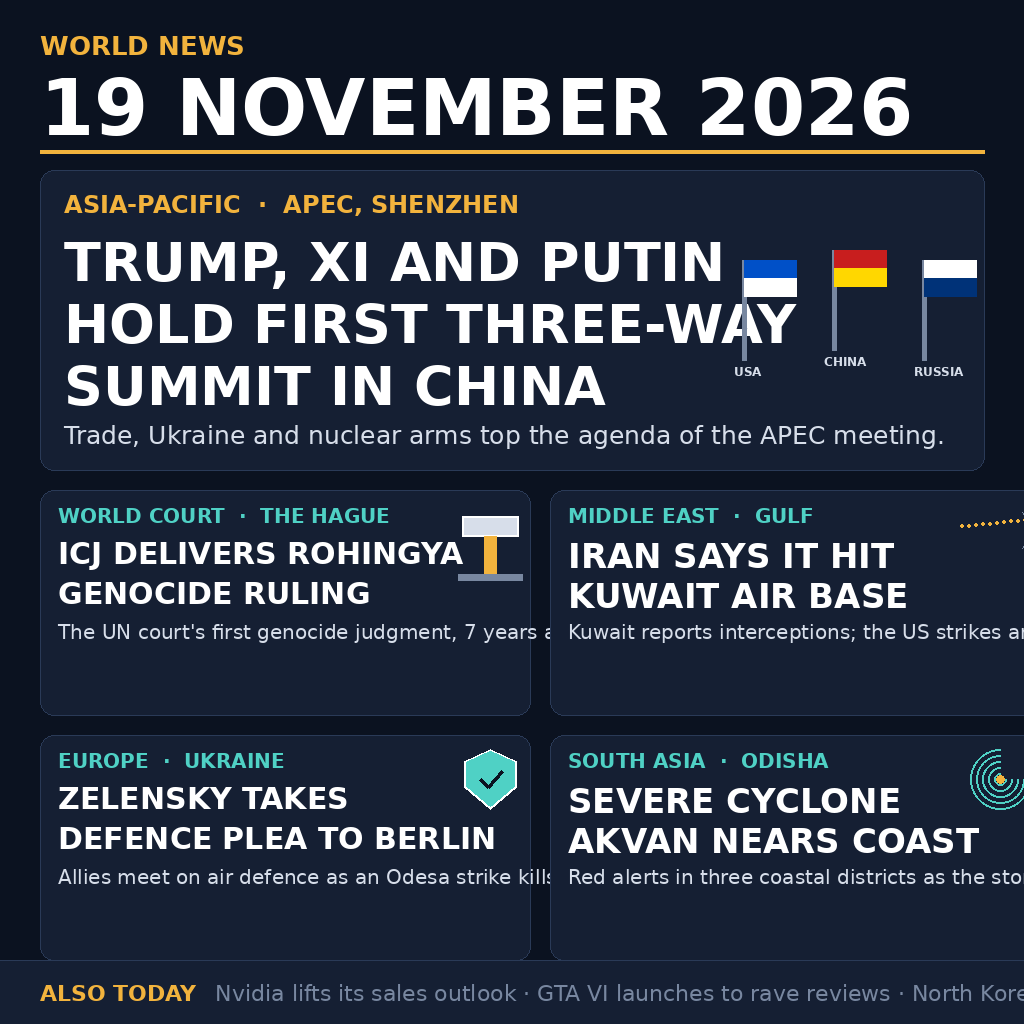
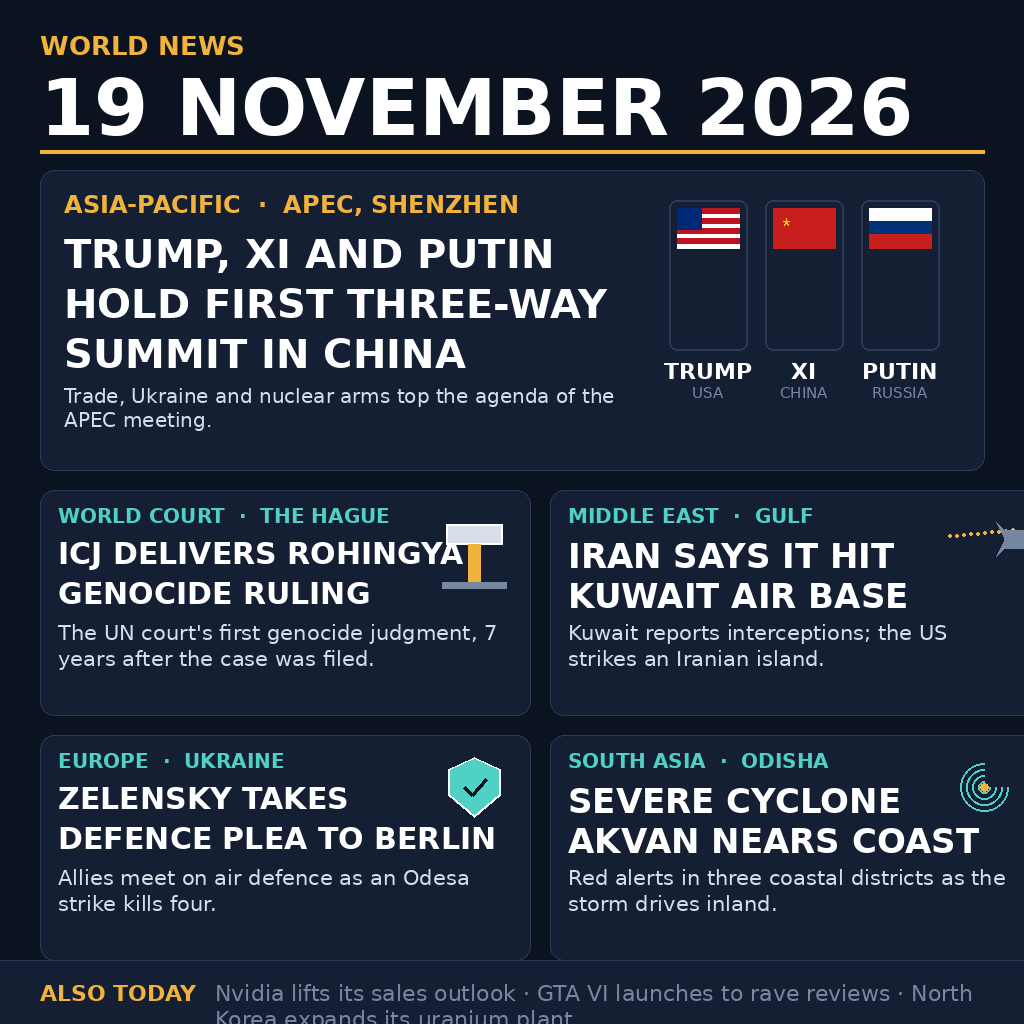
news-image-20261119: fit every text block, redraw flags, add layout self-check

diff --git a/make_image.py b/make_image.py
@@ -2,6 +2,7 @@
 """Generate the 19 November 2026 world news image."""
 from PIL import Image, ImageDraw, ImageFont
 from pathlib import Path
+import math
 
 W, H = 1024, 1024
 
@@ -17,8 +18,6 @@ GREY = (120, 135, 160)
 F = Path("/usr/share/fonts/truetype/dejavu")
 FONT_SANS = F / "DejaVuSans.ttf"
 FONT_BOLD = F / "DejaVuSans-Bold.ttf"
-FONT_SERIF = F / "DejaVuSerif-Bold.ttf"
-FONT_COND = F / "DejaVuSansCondensed-Bold.ttf"
 
 
 def font(path, size):
@@ -27,16 +26,6 @@ def font(path, size):
 
 def text_w(draw, text, f):
     return draw.textlength(text, font=f)
-
-
-def fit_font(draw, text, path, max_size, max_w, min_size=20):
-    size = max_size
-    while size >= min_size:
-        f = font(path, size)
-        if text_w(draw, text, f) <= max_w:
-            return f
-        size -= 1
-    return font(path, min_size)
 
 
 def wrap_lines(draw, text, f, max_w):
@@ -64,46 +53,21 @@ def chip(draw, x, y, text, color, size=24, bold=True):
     draw.text((x, y), text, font=f, fill=color)
 
 
-def pictogram_three_lecterns(draw, cx, cy):
-    blocks = [
-        (cx - 90, cy, (0, 80, 200), (255, 255, 255)),  # USA
-        (cx, cy - 10, (200, 30, 30), (255, 215, 0)),  # China
-        (cx + 90, cy, (255, 255, 255), (0, 50, 120)),  # Russia
-    ]
-    labels = ["USA", "CHINA", "RUSSIA"]
-    for i, (x, y, c1, c2) in enumerate(blocks):
-        # pole
-        draw.rectangle([x - 2, y - 60, x + 2, y + 40], fill=GREY)
-        # flag
-        draw.rectangle([x, y - 60, x + 52, y - 24], fill=c1)
-        draw.rectangle([x, y - 42, x + 52, y - 24], fill=c2)
-        # label
-        lf = font(FONT_BOLD, 12)
-        draw.text((x - 10, y + 44), labels[i], font=lf, fill=BODY)
-
-
 def pictogram_gavel(draw, cx, cy):
-    # head
     draw.rectangle([cx - 28, cy - 18, cx + 28, cy + 2], fill=BODY, outline=HEAD, width=2)
-    # handle
     draw.rectangle([cx - 6, cy + 2, cx + 6, cy + 40], fill=AMBER)
-    # base
     draw.rectangle([cx - 32, cy + 40, cx + 32, cy + 46], fill=GREY)
 
 
 def pictogram_missile(draw, cx, cy):
-    # dashed arc
-    for i in range(0, 12):
-        x = cx - 40 + i * 7
-        y = cy - 10 - int(8 * (i / 11.0))
+    for i in range(0, 10):
+        x = cx - 36 + i * 7
+        y = cy - 8 - int(6 * (i / 9.0))
         draw.ellipse([x, y, x + 3, y + 3], fill=AMBER)
-    # missile body
-    draw.rectangle([cx + 30, cy - 14, cx + 56, cy + 6], fill=GREY)
-    # nose
-    draw.polygon([(cx + 56, cy - 14), (cx + 70, cy - 4), (cx + 56, cy + 6)], fill=AMBER)
-    # fins
-    draw.polygon([(cx + 30, cy - 14), (cx + 22, cy - 22), (cx + 30, cy - 6)], fill=GREY)
-    draw.polygon([(cx + 30, cy + 6), (cx + 22, cy + 14), (cx + 30, cy - 2)], fill=GREY)
+    draw.rectangle([cx + 20, cy - 12, cx + 44, cy + 6], fill=GREY)
+    draw.polygon([(cx + 44, cy - 12), (cx + 56, cy - 2), (cx + 44, cy + 6)], fill=AMBER)
+    draw.polygon([(cx + 20, cy - 12), (cx + 12, cy - 20), (cx + 20, cy - 4)], fill=GREY)
+    draw.polygon([(cx + 20, cy + 6), (cx + 12, cy + 14), (cx + 20, cy - 2)], fill=GREY)
 
 
 def pictogram_shield(draw, cx, cy):
@@ -113,37 +77,104 @@ def pictogram_shield(draw, cx, cy):
 
 
 def pictogram_cyclone(draw, cx, cy):
-    for r in range(6, 32, 6):
+    for r in range(6, 28, 6):
         draw.arc([cx - r, cy - r, cx + r, cy + r], start=0, end=270, fill=TEAL, width=2)
     draw.ellipse([cx - 4, cy - 4, cx + 4, cy + 4], fill=AMBER)
+
+
+def flag_usa(draw, x0, y0, w, h):
+    draw.rectangle([x0, y0, x0 + w, y0 + h], fill=(255, 255, 255))
+    stripe_h = h // 7
+    for i in range(7):
+        if i % 2 == 0:
+            draw.rectangle([x0, y0 + i * stripe_h, x0 + w, y0 + (i + 1) * stripe_h], fill=(190, 20, 30))
+    canton_w = int(w * 0.4)
+    canton_h = int(h * 0.54)
+    draw.rectangle([x0, y0, x0 + canton_w, y0 + canton_h], fill=(0, 40, 120))
+
+
+def flag_china(draw, x0, y0, w, h):
+    draw.rectangle([x0, y0, x0 + w, y0 + h], fill=(200, 30, 30))
+    star_cx = x0 + int(w * 0.22)
+    star_cy = y0 + int(h * 0.35)
+    r = int(min(w, h) * 0.12)
+    pts = []
+    for i in range(5):
+        a = -90 + i * 72
+        rad = math.radians(a)
+        pts.append((star_cx + int(r * math.cos(rad)), star_cy + int(r * math.sin(rad))))
+        a2 = -90 + i * 72 + 36
+        rad2 = math.radians(a2)
+        pts.append((star_cx + int(r * 0.4 * math.cos(rad2)), star_cy + int(r * 0.4 * math.sin(rad2))))
+    draw.polygon(pts, fill=(255, 215, 0))
+
+
+def flag_russia(draw, x0, y0, w, h):
+    band = h // 3
+    draw.rectangle([x0, y0, x0 + w, y0 + band], fill=(255, 255, 255))
+    draw.rectangle([x0, y0 + band, x0 + w, y0 + 2 * band], fill=(0, 50, 120))
+    draw.rectangle([x0, y0 + 2 * band, x0 + w, y0 + h], fill=(200, 30, 30))
+
+
+def lead_columns(draw, rx0, ry0, rx1, ry1):
+    col_w = 78
+    col_h = 150
+    gap = 18
+    total = 3 * col_w + 2 * gap
+    start_x = rx0 + (rx1 - rx0 - total) // 2
+    names = [("TRUMP", "USA", flag_usa), ("XI", "CHINA", flag_china), ("PUTIN", "RUSSIA", flag_russia)]
+    for i, (name, country, flagfn) in enumerate(names):
+        cx = start_x + i * (col_w + gap)
+        cy = ry0 + 10
+        draw.rounded_rectangle([cx, cy, cx + col_w, cy + col_h], radius=8, fill=CARD, outline=RULE, width=2)
+        fx0 = cx + 8
+        fy0 = cy + 8
+        fw = col_w - 16
+        fh = 40
+        flagfn(draw, fx0, fy0, fw, fh)
+        nf = font(FONT_BOLD, 22)
+        draw.text((cx + (col_w - text_w(draw, name, nf)) // 2, cy + col_h + 8), name, font=nf, fill=HEAD)
+        cf = font(FONT_SANS, 15)
+        draw.text((cx + (col_w - text_w(draw, country, cf)) // 2, cy + col_h + 34), country, font=cf, fill=GREY)
 
 
 def main():
     img = Image.new("RGB", (W, H), NAVY)
     draw = ImageDraw.Draw(img)
+    checks = []
 
-    # Header band
     wf = font(FONT_BOLD, 26)
     draw.text((40, 30), "WORLD NEWS", font=wf, fill=AMBER)
+    checks.append(("WORLD NEWS", wf, 944))
     df = font(FONT_BOLD, 78)
     draw.text((40, 62), "19 NOVEMBER 2026", font=df, fill=HEAD)
+    checks.append(("19 NOVEMBER 2026", df, 944))
     draw.rectangle([40, 150, W - 40, 153], fill=AMBER)
 
-    # Lead card
     lx0, ly0, lx1, ly1 = 40, 170, W - 40, 470
     card(draw, lx0, ly0, lx1, ly1)
     chip(draw, lx0 + 24, ly0 + 20, "ASIA-PACIFIC  \u00b7  APEC, SHENZHEN", AMBER, 24)
+    cfont = font(FONT_BOLD, 24)
+    checks.append(("ASIA-PACIFIC  \u00b7  APEC, SHENZHEN", cfont, 944))
     hl = ["TRUMP, XI AND PUTIN", "HOLD FIRST THREE-WAY", "SUMMIT IN CHINA"]
-    hf = font(FONT_BOLD, 54)
+    hf = font(FONT_BOLD, 40)
     y = ly0 + 60
+    reserved_x = lx1 - 340
+    max_head_w = reserved_x - (lx0 + 24) - 24
     for line in hl:
         draw.text((lx0 + 24, y), line, font=hf, fill=HEAD)
-        y += 62
-    bf = font(FONT_SANS, 25)
-    draw.text((lx0 + 24, y + 4), "Trade, Ukraine and nuclear arms top the agenda of the APEC meeting.", font=bf, fill=BODY)
-    pictogram_three_lecterns(draw, lx1 - 150, ly0 + 150)
+        checks.append((line, hf, max_head_w))
+        y += 50
+    bf = font(FONT_SANS, 20)
+    body_line = "Trade, Ukraine and nuclear arms top the agenda of the APEC meeting."
+    blines = wrap_lines(draw, body_line, bf, max_head_w)
+    by = y + 4
+    for bl in blines:
+        draw.text((lx0 + 24, by), bl, font=bf, fill=BODY)
+        checks.append((bl, bf, max_head_w))
+        by += 24
+    lead_columns(draw, reserved_x, ly0 + 20, lx1 - 20, ly1 - 20)
 
-    # 2x2 grid
     gx0, gy0 = 40, 490
     cw, ch = 490, 225
     gutter = 20
@@ -162,29 +193,67 @@ def main():
         y1 = y0 + ch
         card(draw, x0, y0, x1, y1)
         chip(draw, x0 + 18, y0 + 14, c, TEAL, 20)
+        checks.append((c, font(FONT_BOLD, 20), cw - 36))
         hf2 = font(FONT_BOLD, 34)
         hl2 = wrap_lines(draw, h, hf2, cw - 36)
-        # shrink if needed
         while len(hl2) > 2:
             hf2 = font(FONT_BOLD, 30)
             hl2 = wrap_lines(draw, h, hf2, cw - 36)
         y = y0 + 46
         for ln in hl2:
             draw.text((x0 + 18, y), ln, font=hf2, fill=HEAD)
+            checks.append((ln, hf2, cw - 36))
             y += 40
-        bf2 = fit_font(draw, line, FONT_SANS, 21, cw - 36, 20)
-        draw.text((x0 + 18, y + 4), line, font=bf2, fill=BODY)
-        pic(draw, x1 - 40, y0 + 44)
+        max_teaser_w = cw - 36
+        teaser_lines = None
+        chosen_size = None
+        for size in (21, 20, 19):
+            f = font(FONT_SANS, size)
+            tl = wrap_lines(draw, line, f, max_teaser_w)
+            if len(tl) <= 2:
+                teaser_lines = tl
+                chosen_size = size
+                break
+        if teaser_lines is None:
+            raise RuntimeError(f"teaser cannot fit: {line}")
+        tf = font(FONT_SANS, chosen_size)
+        block_h = len(teaser_lines) * 26
+        if y + 4 + block_h > y1 - 12:
+            raise RuntimeError(f"teaser block overflows card: {line}")
+        ty = y + 4
+        for ln in teaser_lines:
+            draw.text((x0 + 18, ty), ln, font=tf, fill=BODY)
+            checks.append((ln, tf, max_teaser_w))
+            ty += 26
+        cx = x1 - 56
+        cy = y0 + 52
+        pic(draw, cx, cy)
 
-    # Bottom strip
     strip_y = H - 64
     draw.rectangle([0, strip_y, W, H], fill=CARD)
     draw.line([(0, strip_y), (W, strip_y)], fill=RULE, width=1)
     af = font(FONT_BOLD, 22)
     draw.text((40, strip_y + 20), "ALSO TODAY", font=af, fill=AMBER)
     aw = text_w(draw, "ALSO TODAY  ", af)
+    checks.append(("ALSO TODAY", af, 944))
+    ticker = "Nvidia lifts its sales outlook \u00b7 GTA VI launches to rave reviews \u00b7 North Korea expands its uranium plant"
     sf = font(FONT_SANS, 22)
-    draw.text((40 + aw + 4, strip_y + 20), "Nvidia lifts its sales outlook \u00b7 GTA VI launches to rave reviews \u00b7 North Korea expands its uranium plant", font=sf, fill=GREY)
+    ticker_lines = wrap_lines(draw, ticker, sf, 944 - int(aw))
+    if len(ticker_lines) > 2:
+        ticker = "Nvidia lifts sales outlook \u00b7 GTA VI launches to rave reviews \u00b7 North Korea expands uranium plant"
+        ticker_lines = wrap_lines(draw, ticker, sf, 944 - int(aw))
+    if len(ticker_lines) > 2:
+        raise RuntimeError("ticker cannot fit")
+    tx = 40 + int(aw) + 4
+    ty = strip_y + 20
+    for ln in ticker_lines:
+        draw.text((tx, ty), ln, font=sf, fill=GREY)
+        checks.append((ln, sf, 944 - int(aw)))
+        ty += 26
+
+    for txt, f, mw in checks:
+        if text_w(draw, txt, f) > mw + 0.5:
+            raise RuntimeError(f"text exceeds max width: {txt!r} ({text_w(draw, txt, f):.1f} > {mw})")
 
     out = Path("entry.png")
     img.save(out, format="PNG", optimize=True)

diff --git a/main.py b/main.py
@@ -2,6 +2,7 @@
 """Entrypoint: copy bundled entry.png to output dir (deterministic, no network)."""
 from __future__ import annotations
 
+import argparse
 import os
 import shutil
 import sys
@@ -11,6 +12,10 @@ MAX_BYTES = 1048576  # 1 MiB
 
 
 def main() -> int:
+    parser = argparse.ArgumentParser(description="Copy entry.png to output dir or check it.")
+    parser.add_argument("--check", action="store_true", help="Verify image is 1024x1024 and report bytes without copying.")
+    args = parser.parse_args()
+
     base_dir = Path(__file__).resolve().parent
     src = base_dir / "entry.png"
     out_dir_env = os.environ.get("MAKEFUN_OUTPUT_DIR")
@@ -22,9 +27,26 @@ def main() -> int:
 
     size = src.stat().st_size
     if size <= 0 or size > MAX_BYTES:
-        print(f"ERROR: entry.png invalid size: {size} bytes (limit {MAX_BYTES})",
-              file=sys.stderr)
+        print(f"ERROR: entry.png invalid size: {size} bytes (limit {MAX_BYTES})", file=sys.stderr)
         return 1
+
+    if args.check:
+        try:
+            from PIL import Image
+        except Exception as exc:
+            print(f"ERROR: cannot import PIL: {exc}", file=sys.stderr)
+            return 1
+        try:
+            with Image.open(src) as im:
+                w, h = im.size
+        except Exception as exc:
+            print(f"ERROR: cannot open image: {exc}", file=sys.stderr)
+            return 1
+        if w != 1024 or h != 1024:
+            print(f"ERROR: image size {w}x{h} != 1024x1024", file=sys.stderr)
+            return 1
+        print(f"OK: 1024x1024, {size} bytes")
+        return 0
 
     try:
         out_dir.mkdir(parents=True, exist_ok=True)
